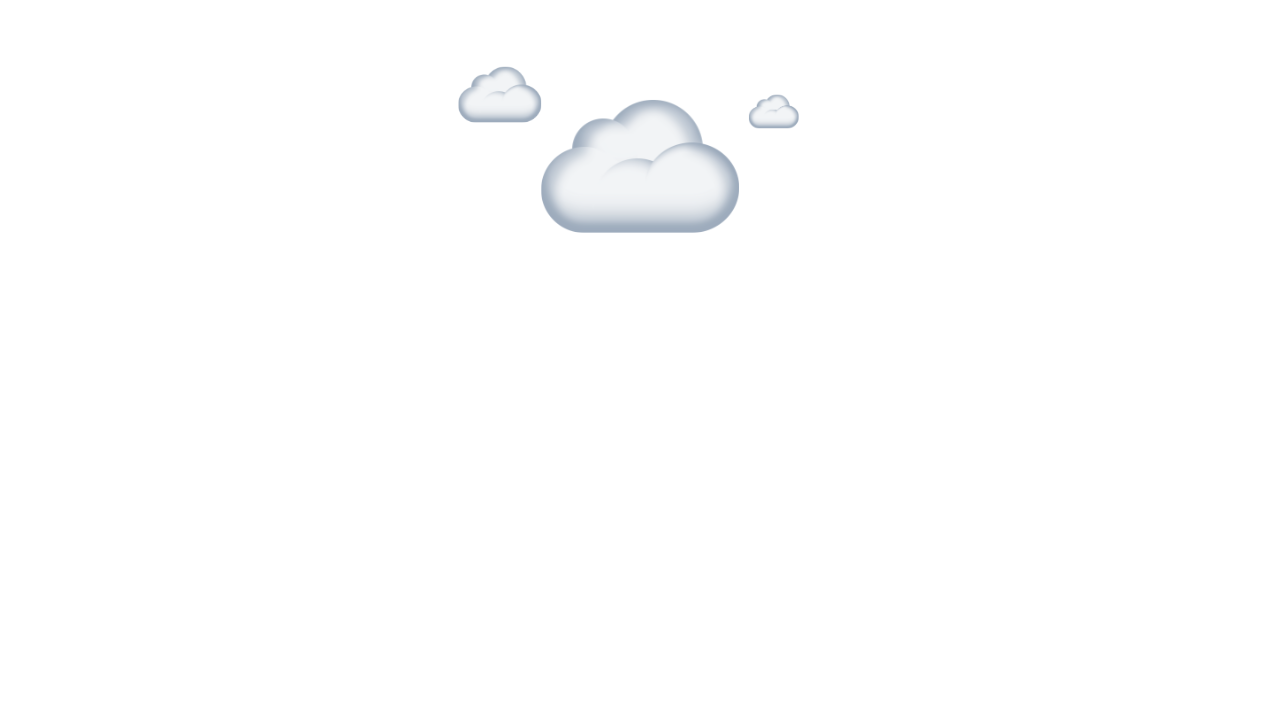
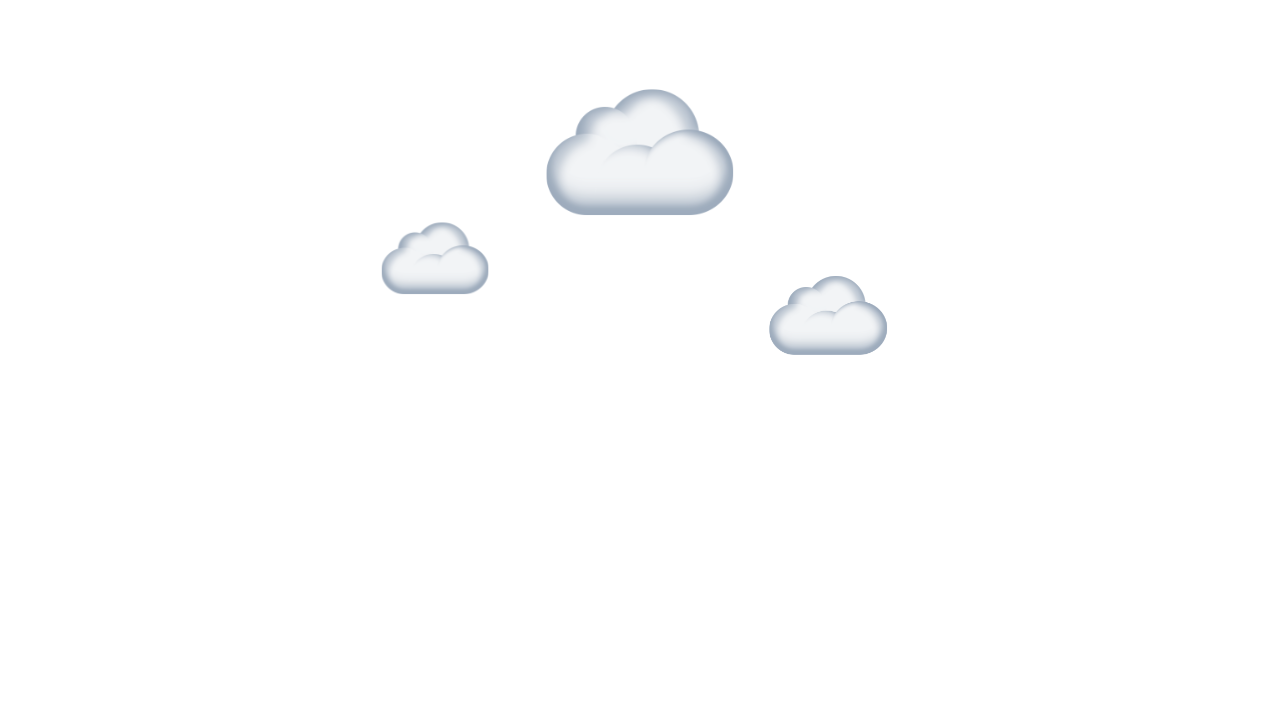
Complete css

diff --git a/weather-finder/src/Components/WeatherFinder.css b/weather-finder/src/Components/WeatherFinder.css
@@ -8,10 +8,6 @@
 
 }
 
-.weather img{
-    display: none;
-}
-
 .weather-app{
     width: 35rem;
     height: 60rem;
@@ -22,6 +18,17 @@
     display: flex;
     flex-direction: column;
     align-items: center;
+    position: relative; /* for weather type/temp/date/data */
+}
+
+.weather img{
+    position: absolute;
+    width: 110rem;
+    top: 60%;
+    left: 50%;
+    transform:translate(-50%,-50%);
+
+    
 }
 
 .search{
@@ -43,7 +50,7 @@
 
 .search-top div{
     font-size: 2rem;
-    color: #362a1f;
+    color: #2c1a09;
     letter-spacing: 0.1rem;
 }
 
@@ -55,12 +62,12 @@
     width: 25rem;
     height: 5rem;
     background-color: transparent;
-    border: 0.2rem solid #362a1f;
+    border: 0.2rem solid #2c1a09;
     border-radius: 3rem;
     padding: 1rem 3rem 1rem 1rem;
     outline: none;
     font-size: 1.6rem;
-    color: #362a1f;
+    color: #2c1a09;
 }
 
 .search-bar input::placeholder{
@@ -78,7 +85,69 @@
     top: 50%; /* top edge */ 
     transform:translateY(-50%); /* center of the search bar */
     right: 2rem;
-    color: #362a1f;
+    color: #2c1a09;
     cursor: pointer;
 
+}
+
+.weather-type{
+    position:absolute;
+    top: 48%;
+    left: 50%;
+    transform:translateX(-50%);
+    font-size: 2rem;
+    color: #2c1a09;
+}
+
+.temp{
+     position: absolute;
+     top: 55%;
+     left: 50%;
+     transform:translateX(-50%);
+     font-size: 9rem;
+     background-image: linear-gradient(to right, #956c45, #2c1a09);
+     -webkit-background-clip: text; /* for gradient on text*/
+     -webkit-text-fill-color: transparent;
+     text-shadow: 0.5rem 0.5rem 1rem rgba(0,0,0,0.15);
+    
+}
+
+.weather-date{
+    position: absolute;
+    font-size: 1.5rem;
+    bottom: 22%;
+    color: 2c1a09;
+}
+
+.weather-data{
+    position: absolute;
+    width: 100%;
+    bottom: 2rem;
+    display: flex;
+    column-gap: 2rem;
+    padding: 0 2rem;
+}
+
+.weather-data > div{
+    display: flex;
+    flex-direction: column;
+    row-gap: 1rem;
+    align-items: center;
+    flex: 1; /* grow proportional to wind and humidity boxes */
+    background-color: rgba(255, 255, 255, 0.17);
+    padding: 2rem;
+    border-radius: 2rem;
+
+}
+
+.data-name{
+    font-size: 1.8rem;
+    color: #2c1a09;
+}
+
+.weather-data i{
+    font-size: 2rem;
+    color: rgb(21, 48, 255);
+    text-shadow: -0.3rem 0.5rem 0.3rem rgba(0,0,0,0.4);
+    
 }

diff --git a/weather-finder/src/Components/WeatherFinder.jsx b/weather-finder/src/Components/WeatherFinder.jsx
@@ -3,8 +3,6 @@ import cloudy from "../assets/images/cloudy.png"
 import rainy from "../assets/images/rainy.png"
 import snowy from "../assets/images/snowy.png"
 
-
-
 const WeatherFinder = () => {
   return (
     <div className="container">
@@ -25,7 +23,7 @@ const WeatherFinder = () => {
           <div className="temp">28ºC</div>
         </div>
         <div className="weather-date">
-          <p>Thum 9 Jan</p>
+          <p>Fri, 10 Jan</p>
         </div>
         <div className="weather-data">
           <div className="humidity">
